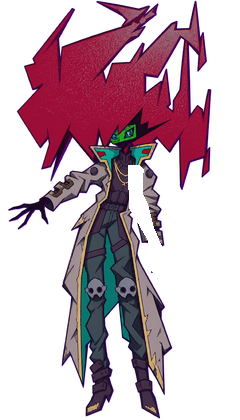
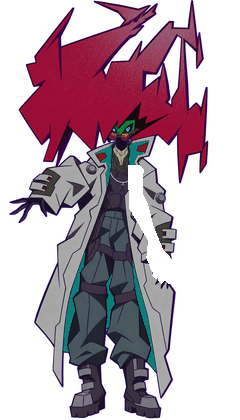
1.8.0 (en curso): trajes fieles de Edgerunners (parte 4: David, David final, Lucy, Rebecca, Maine, Dorio, Kiwi, Pilar, Falco, Faraday, Adam Smasher, Gloria, Sasha, D., Talia, Kingsley, Roman Carax, Avida y Kyoko) y sus accesorios; fit-assets quita los restos de la mano colgando

diff --git a/app/src/main/assets/android/wardrobe.js b/app/src/main/assets/android/wardrobe.js
@@ -101,7 +101,7 @@ const PLACE = {
   scarf: { at: [118, 170], w: 40 }, choker: { at: [119, 149], w: 22 }, netcable: { at: [124, 170], w: 40 },
   bouquet: { at: [118, 214], w: 34 }, controller: { at: [118, 206], w: 40 }, moon: { at: [118, 206], w: 40 }, filmcam: { at: [118, 206], w: 40 },
   balloon: { at: [200, 176], w: 40 },
-  crosschain: { at: [119, 160], w: 22 }, jawmask: { m: [1, 8], w: 30 }, monowire: { at: [118, 210], w: 44 },
+  crosschain: { at: [119, 166], w: 30 }, jawmask: { m: [1, 8], w: 30 }, monowire: { at: [118, 210], w: 44 },
   backpack: { at: [118, 200], w: 70, behind: true },
   sword: { at: [118, 196], w: 150, behind: true }, shotgun: { at: [118, 196], w: 150, behind: true },
 };

diff --git a/tools/fit-assets.py b/tools/fit-assets.py
@@ -17,6 +17,7 @@
 import json
 import os
 import sys
+from collections import deque
 
 import numpy as np
 from PIL import Image
@@ -97,13 +98,69 @@ def darken(im):
     return Image.fromarray(arr.astype('uint8'), 'RGBA')
 
 
-def outfit(im):
+# a hanging hand GPT drew lower than her own, still touching her (x0, y0, x1, y1 and the hue range of that hand)
+HANDS = {'rebecca': ((135, 240, 200, 315), (0.55, 0.72))}
+
+
+def pieces(mask):
+    """each connected piece of the picture, by number"""
+    h, w = mask.shape
+    lab = np.zeros(mask.shape, int)
+    n = 0
+    for y, x in zip(*np.nonzero(mask)):
+        if lab[y, x]:
+            continue
+        n += 1
+        lab[y, x] = n
+        q = deque([(y, x)])
+        while q:
+            cy, cx = q.popleft()
+            for ny in (cy - 1, cy, cy + 1):
+                for nx in (cx - 1, cx, cx + 1):
+                    if 0 <= ny < h and 0 <= nx < w and mask[ny, nx] and not lab[ny, nx]:
+                        lab[ny, nx] = n
+                        q.append((ny, nx))
+    return lab, n
+
+
+FULL_A = np.array(FULL)[..., 3] > 30
+
+
+def leftovers(arr):
+    """what's left of GPT's hanging right arm: loose bits beside her, where her own picture has nothing"""
+    lab, n = pieces(arr[..., 3] > 40)
+    sizes = np.bincount(lab.ravel())
+    sizes[0] = 0
+    main = sizes.argmax()
+    kill = np.zeros(lab.shape, bool)
+    for i in range(1, n + 1):
+        bit = lab == i
+        ys, xs = np.nonzero(bit)
+        if i == main or xs.mean() < 128 or not 140 < ys.mean() < 345 or (bit & FULL_A).sum() > bit.sum() / 2:
+            continue
+        kill |= bit
+    return kill
+
+
+def outfit(im, name=''):
     body = im.convert('RGBA').resize((220, 420), Image.LANCZOS)
     out = Image.new('RGBA', (240, 420))
     out.paste(body, (0, 0))
     out = darken(out)
     arr = np.array(out)
     arr[..., 3][ARM] = 0
+    if name in HANDS:
+        (x0, y0, x1, y1), (lo, hi) = HANDS[name]
+        h = hsv(Image.fromarray(arr))
+        hand = np.zeros(ARM.shape, bool)
+        hand[y0:y1, x0:x1] = True
+        hand &= (h[..., 0] > lo) & (h[..., 0] < hi) & (h[..., 1] > 0.35)
+        for _ in range(2):  # and its outline
+            hand = hand | np.roll(hand, 1, 0) | np.roll(hand, -1, 0) | np.roll(hand, 1, 1) | np.roll(hand, -1, 1)
+        hand[:, :x0] = False
+        hand[y1:, :] = False
+        arr[..., 3][hand & ~FULL_A] = 0
+    arr[..., 3][leftovers(arr)] = 0
     return Image.fromarray(arr)
 
 
@@ -164,7 +221,7 @@ def main():
         im = Image.open(os.path.join(src, f))
         kind, _, rest = name.partition('-')
         if kind == 'outfit':
-            out, path = outfit(im), os.path.join(WARDROBE, f'outfit-{rest}.png')
+            out, path = outfit(im, rest), os.path.join(WARDROBE, f'outfit-{rest}.png')
         elif kind == 'acc':
             out, path = trim(im, 256), os.path.join(WARDROBE, f'acc-{ACC_IDS.get(rest, rest)}.png')
         elif kind == 'face':
